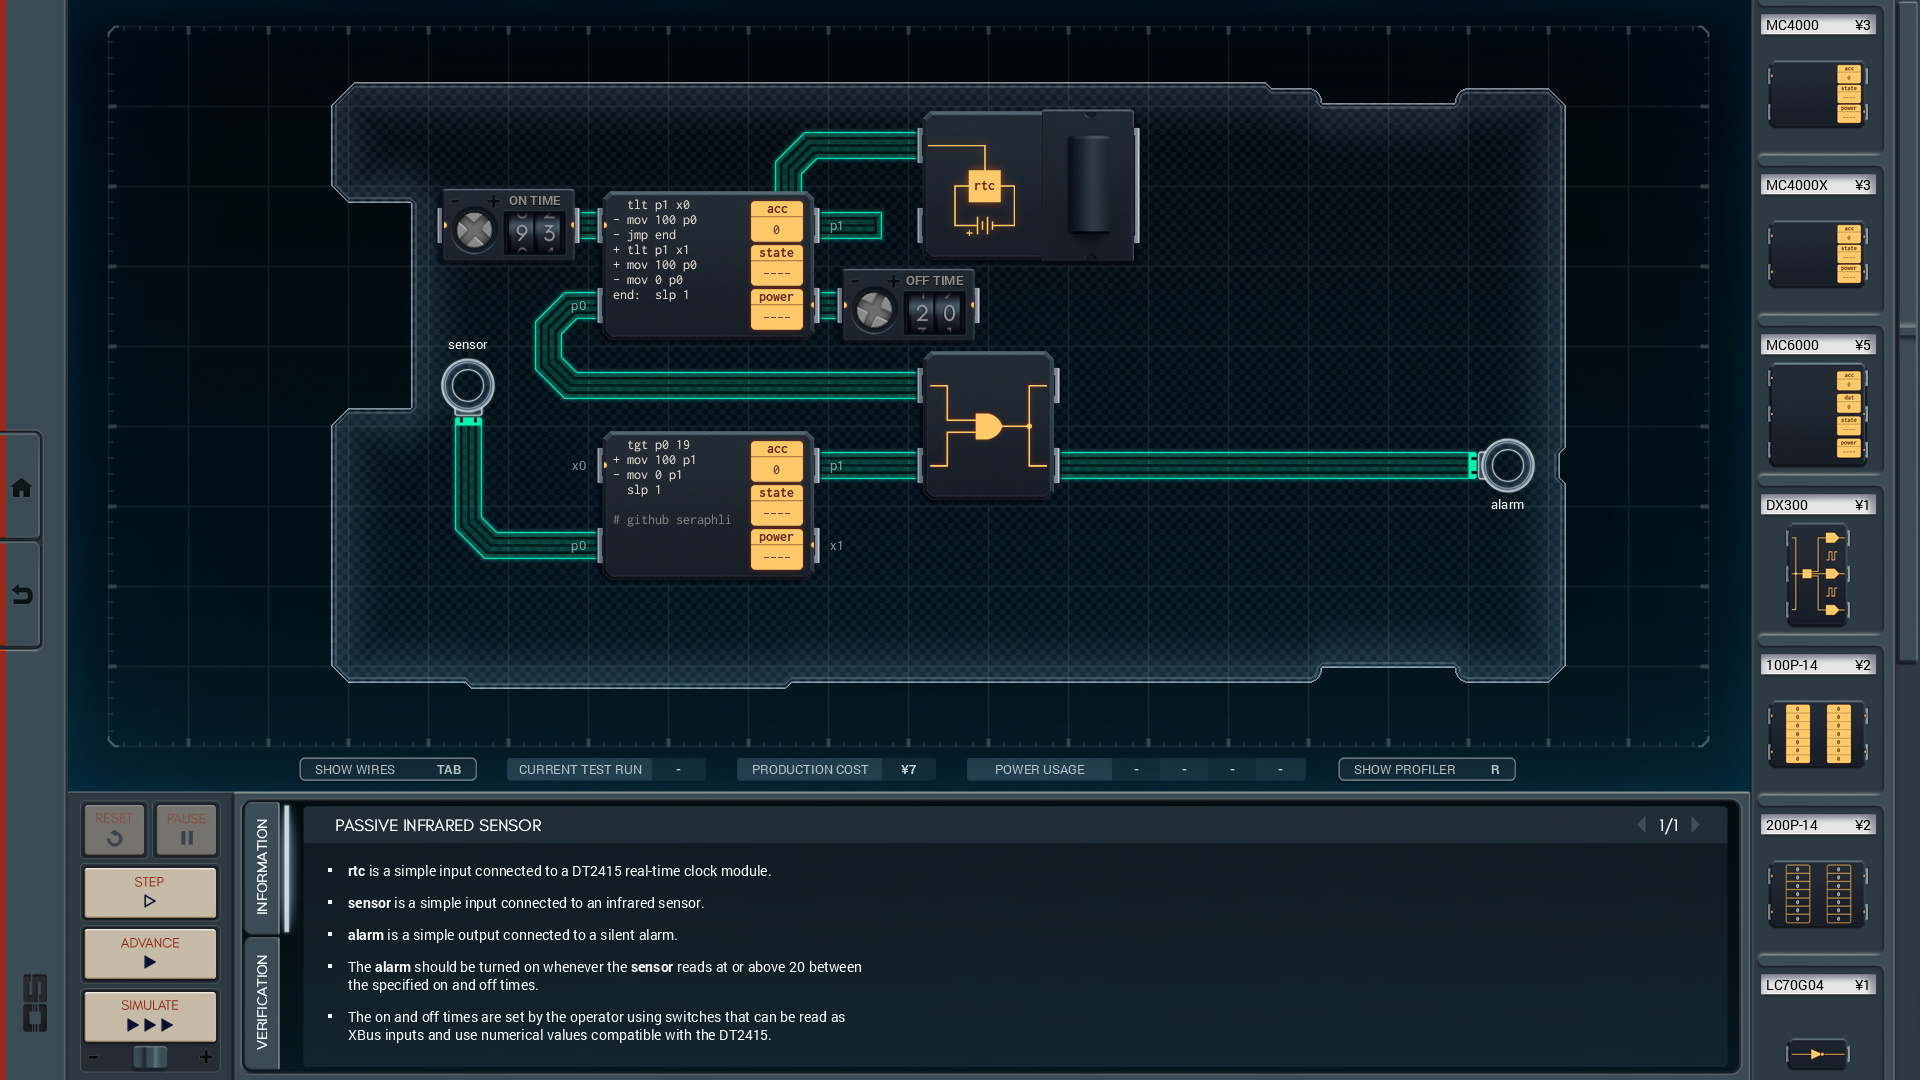
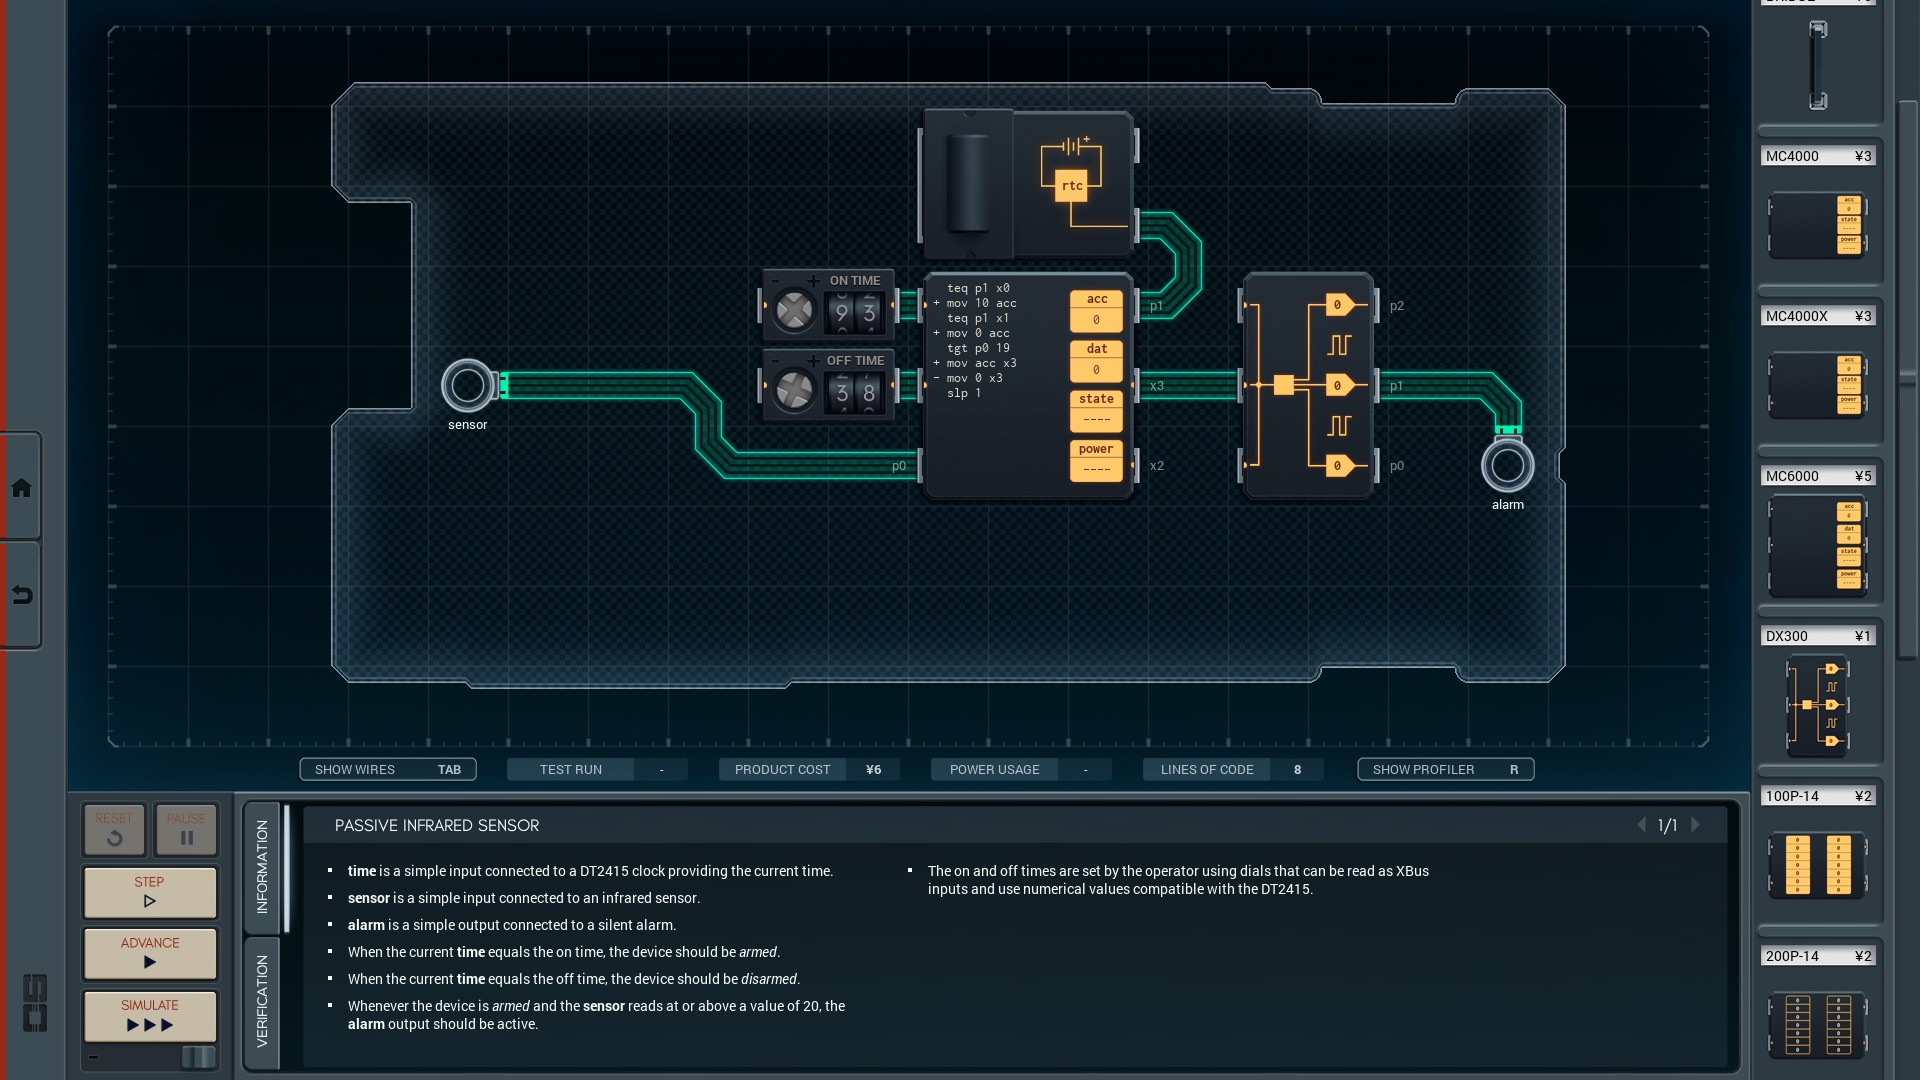
update lv 7 and 8

diff --git a/README.md b/README.md
@@ -60,10 +60,21 @@ Cost: 4 Power: 285 Lines: 7
 
 ## PASSIVE INFRARED SENSOR
 
+2017.12.9 Updated.
+
+[Reference][1]
+
+Cost: 6 Power: 302 Lines: 8
+
 ![PASSIVE INFRARED SENSOR](7.jpg)
-![PASSIVE INFRARED SENSOR](7B.jpg)
 
 ## VIRTUAL REALITY BUZZER
+
+2017.12.9 Updated.
+
+[Reference][1]
+
+Cost: 3 Power: 111 Lines: 5
 
 ![VIRTUAL REALITY BUZZER](8.jpg)
 
